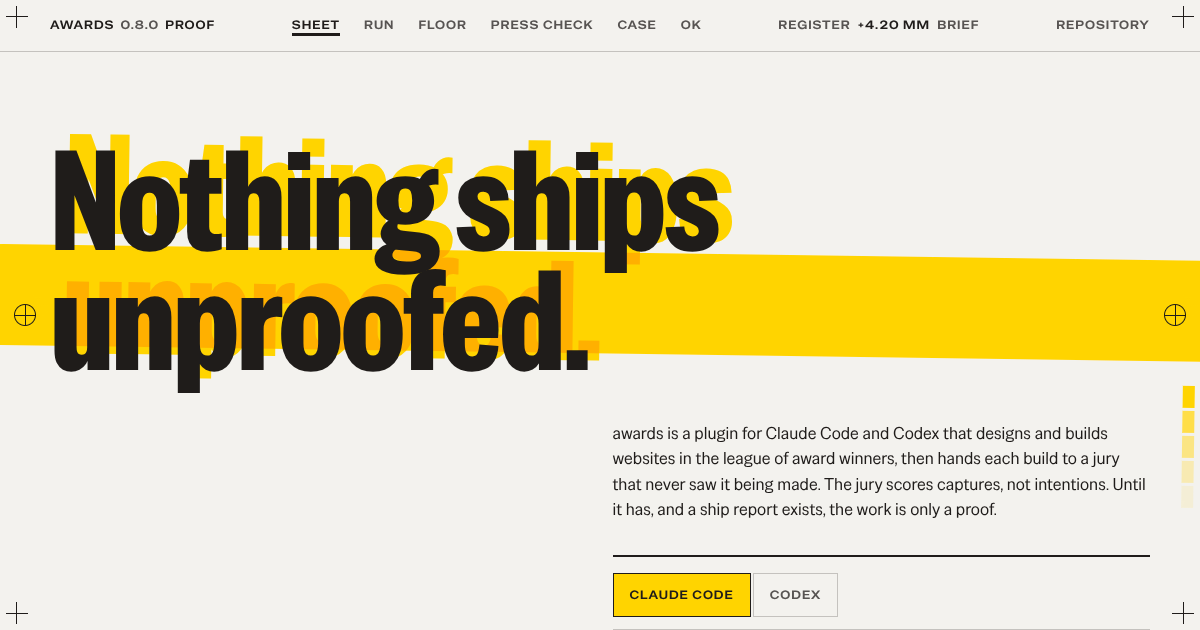
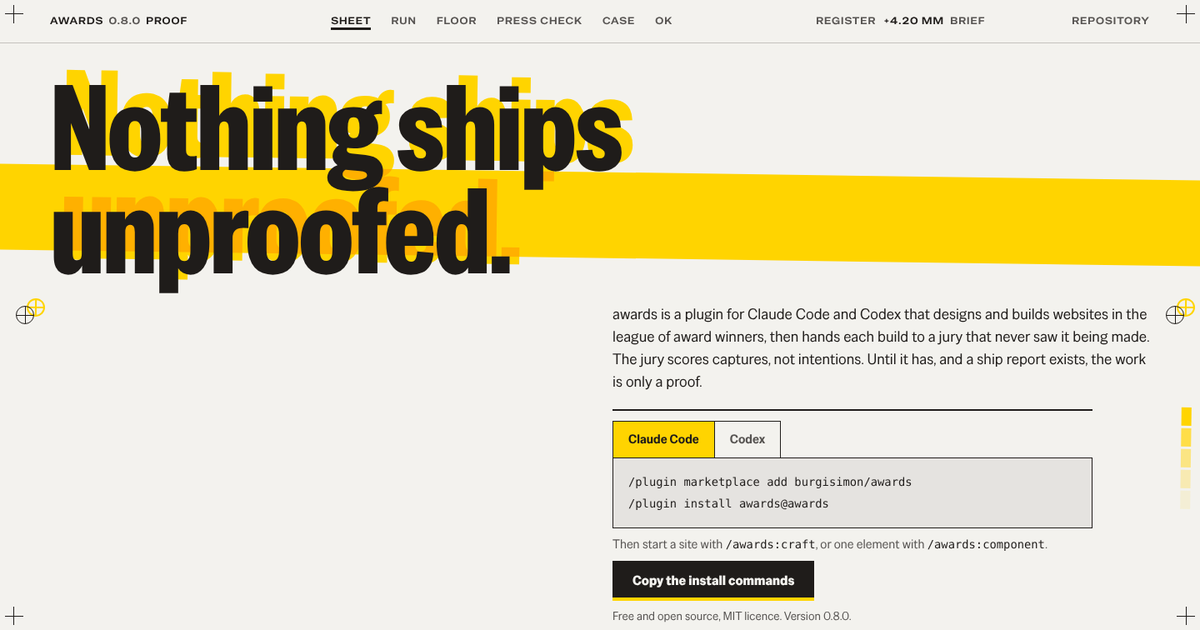
awards-home: pre-jury slop pass
The floor's bar key becomes a legend in rows of four (two on a narrow
figure) with a swatch per family, so no name overflows its cell; the
recipe groups are set in balanced columns instead of a grid that
stranded short groups under tall rows. The proof is reprinted from
Ekvator's ship-pass frame, the OG image re-shot from the current build,
and the remaining images logged.

Claude-Session: https://claude.ai/code/session_01S3PHaSL1cEMrxECNy5QzM8

diff --git a/showcase/awards-home/src/styles/sheet.css b/showcase/awards-home/src/styles/sheet.css
@@ -174,12 +174,15 @@ html.js .install__for { display: none; }
 
 /* 3 · The floor — figure and spec: the colour bar, its key, the copy. */
 .chapter--floor { row-gap: calc(var(--unit) * 10); align-items: start; }
-.floor__figure { grid-column: 1 / span 7; display: grid; gap: calc(var(--unit) * 3); }
+.floor__figure { grid-column: 1 / span 7; display: grid; gap: calc(var(--unit) * 4); container-type: inline-size; }
 .bar { display: grid; grid-template-columns: repeat(8, 1fr); gap: 3px; height: clamp(12rem, 26vw, 22rem); mix-blend-mode: multiply; }
 .bar__patch { background: color-mix(in oklab, var(--accent) calc(var(--d) * 100%), var(--ground)); align-self: end; height: calc(30% + var(--d) * 70%); }
-.bar__key { display: grid; grid-template-columns: repeat(8, 1fr); gap: 3px; }
-.bar__key div { display: grid; gap: 2px; border-top: 1px solid var(--ink); padding-top: 0.5rem; }
-.bar__key dt { font-size: var(--label); font-weight: 600; font-stretch: 115%; letter-spacing: 0.06em; text-transform: uppercase; line-height: 1.2; hyphens: auto; }
+/* The key reads in rows of four (two on a narrow figure), in the bar's order; every name carries its patch's swatch. */
+.bar__key { display: grid; grid-template-columns: repeat(4, minmax(0, 1fr)); gap: calc(var(--unit) * 4) calc(var(--unit) * 3); }
+@container (max-width: 36rem) { .bar__key { grid-template-columns: repeat(2, minmax(0, 1fr)); } }
+.bar__key div { display: grid; align-content: space-between; gap: 0.25rem; border-top: 1px solid var(--ink); padding-top: 0.5rem; }
+.bar__key dt { display: flex; gap: 0.5em; align-items: baseline; font-size: var(--label); font-weight: 600; font-stretch: 115%; letter-spacing: 0.08em; text-transform: uppercase; line-height: 1.25; }
+.bar__swatch { flex: none; width: 0.75rem; height: 0.75rem; align-self: center; background: color-mix(in oklab, var(--accent) calc(var(--d) * 100%), var(--ground)); box-shadow: inset 0 0 0 1px var(--line); mix-blend-mode: multiply; }
 .bar__key dd { font-family: var(--font-display); font-weight: 700; font-stretch: 78%; font-size: var(--h3); }
 .floor__copy { grid-column: 8 / -1; display: grid; gap: calc(var(--unit) * 6); }
 .floor__quoted { display: grid; gap: calc(var(--unit) * 2); border-top: 1px solid var(--line); padding-top: calc(var(--unit) * 4); }
@@ -212,8 +215,9 @@ html.js .install__for { display: none; }
 /* 5 · The case — the recipes in rows, grouped like a type case. */
 .chapter--case { row-gap: calc(var(--unit) * 12); }
 .case__head { grid-column: 1 / span 7; display: grid; gap: calc(var(--unit) * 5); }
-.case__groups { display: grid; grid-template-columns: repeat(auto-fill, minmax(17rem, 1fr)); gap: calc(var(--unit) * 10) calc(var(--gutter) / 2); align-items: start; }
-.case__group { display: grid; gap: calc(var(--unit) * 3); border-top: 2px solid var(--ink); padding-top: calc(var(--unit) * 3); }
+/* Groups of very different lengths are set like a type case in balanced columns, so no short group strands a row. */
+.case__groups { columns: 4 17rem; column-gap: calc(var(--gutter) / 2); }
+.case__group { display: grid; gap: calc(var(--unit) * 3); border-top: 2px solid var(--ink); padding-top: calc(var(--unit) * 3); margin-bottom: calc(var(--unit) * 10); break-inside: avoid; }
 .case__group h3 { position: relative; font-size: 1.25rem; padding-left: 0.5rem; }
 .case__solid { position: absolute; z-index: -1; left: 0; top: 0.05em; width: 0.9em; height: 1.05em; background: var(--accent); mix-blend-mode: multiply; }
 .case__count { font-family: var(--font-body); font-weight: 400; font-stretch: 100%; font-size: 0.875rem; color: var(--muted); }
@@ -270,7 +274,6 @@ html.js .install__for { display: none; }
   .run__row .run__skill, .run__row .run__line { grid-column: 2; }
   .chapter--check { height: auto; }
   .check__stage { position: static; min-height: 0; row-gap: calc(var(--unit) * 10); padding-block: calc(var(--unit) * 22); }
-  .bar__key { grid-template-columns: repeat(4, 1fr); row-gap: calc(var(--unit) * 4); }
   .bar { grid-template-columns: repeat(8, 1fr); height: 10rem; }
   .stamp { right: 3%; top: -8%; }
   .case__group a { padding: 0.65rem 0; min-height: 44px; display: flex; align-items: center; }

diff --git a/showcase/awards-home/facts/render.js b/showcase/awards-home/facts/render.js
@@ -56,8 +56,9 @@ function outside(f) {
 function bar(f) {
   const max = Math.max(...f.rules.families.map((x) => x.count));
   const patches = f.rules.families.map((x) => `<span class="bar__patch" style="--d:${(x.count / max).toFixed(3)}"></span>`).join('');
+  // The key is a legend: each family carries a swatch of its own patch, so the order and the density both match the bar.
   const rows = f.rules.families.map((x) => `
-            <div><dt>${esc(x.name)}</dt><dd>${x.count}</dd></div>`).join('');
+            <div style="--d:${(x.count / max).toFixed(3)}"><dt><span class="bar__swatch" data-plate="y" aria-hidden="true"></span>${esc(x.name)}</dt><dd>${x.count}</dd></div>`).join('');
   return `<div class="bar" data-plate="y" aria-hidden="true">${patches}</div>
           <dl class="bar__key">${rows}
           </dl>`;

diff --git a/showcase/awards-home/AWARDS.md b/showcase/awards-home/AWARDS.md
@@ -46,9 +46,9 @@
 |---|---|---|---|---|---|
 | 1 | The sheet (hero) | the proof lands out of register · claim, one sentence, install, readout · the plate starts to pull in | the first plate (Edge-to-edge type · left · Accent): the claim across columns 1–12 on two lines, a yellow solid band bleeding off the right edge under line two, lede and install in 7–12 | custom slug line (nav), custom install block (tabs + copy) | Archetype: print artefact with an acetate, adapted — the second plate is the device, the acetate is not taken; the key never moves. Composition: h1 168 px (wdth 78) top-left, yellow band under "unproofed.", ghost type 16 px off; lede and install right half; crop marks at the corners, targets on the side centre lines, colour bar down the right margin. Register: declarative. Phone: h1 two lines at 64 px, install (tabs, code, copy) before the paragraph so the action is on screen one; slug collapses to job, error and Plates. A11y: tabs are a tablist with arrow keys; the copy result is announced in the one polite region; commands are real text. Static still: in register, readout 0.00 mm. Hero probe: `.awards/captures/hero-probe-2/manifest.json` (probe 1 fixed: phone offsets scaled by 0.5, crop marks off the slug text, commands wrap). Memory test: the headline printed with its yellow plate out of register over a yellow band. Component pass 1 (fix, mean 7.93, .awards/jury/2026-10-23.md) applied in one batch: tab and button labels moved out of the furniture's tracked capitals into the reading voice (floor, WORLD clause); the tablet plate composed (h1 on three lines at min(22vw, 30svh), lede and install at the plate's foot); short laptop screens (≤ 920 px tall) tighten the sheet's vertical budget so "Copy the install commands" is on the first screen at 1366 × 768 and 1280 × 720; the tabs stand on the code panel's top edge; the focus ring gains its yellow inner rule and the Plates ring is drawn inset; phone commands hang under their first line and the blocked-clipboard label says "choose Copy" on coarse pointers. Also: the motion-setting listener called a missing `register.setTier` (now `refresh`), and `og:image` is absolute. |
 | 2 | The run | registration improves per phase · nine phases in order with their skills, the deal and its printed seed, the two skills outside the run · — | the run sheet (Index rows · left · None) | custom (an `<ol start="0">` of phases; the numbers are the run's real order) | Facts: skill names checked against `plugins/awards/skills/*` at build, so a new skill stops the build until it has a line. The concept row prints Ekvator's real seed. Phone: number column plus a stacked cell. A11y: an ordered list; hover tint is also a focus tint on links inside. Static still: rows. Register: the readout names the phase of the row at mid-viewport. |
-| 3 | The floor | the colour bar arrives · rule families as density patches with their counts, three rules quoted · the bar settles | the colour bar and its key (Figure and spec · split · Accent) | custom (patch density = the family's share of the largest family, from `rules.json`) | The bar is on the spot plate (aria-hidden); the `<dl>` under it is the text. Phone: bar above, key in four columns, copy below. Static still: the bar. Register: numeric. |
+| 3 | The floor | the colour bar arrives · rule families as density patches with their counts, three rules quoted · the bar settles | the colour bar and its key (Figure and spec · split · Accent) | custom (patch density = the family's share of the largest family, from `rules.json`) | The bar is on the spot plate (aria-hidden); the `<dl>` under it is the text. Phone: bar above, key in four columns, copy below. Static still: the bar. Register: numeric. Pre-jury slop pass: the eight-column key under the bar overflowed its cells ("PERFORMANCE", "BROWSER SURFACES") at every width but the widest, and a wrapped name pushed its count off the line; the key is now a legend in rows of four (two on a narrow figure), each name with its patch's swatch, counts on one baseline per row. |
 | 4 | The press check (interruption) | the scale and register change; the Ekvator proof is pulled · the jury's line and scores, what a fresh context means · 0.00 mm and the stamp | the proof pulled from the press (Plate · centre · Plate) | `sticky-stages-rails`: keep the sticky stage on an invisible 210 vh rail · change the hinge into the plates meeting and the stamp printing · pair with the interruption | The one interruption: it changes the scale (a whole page reprinted) and the register (the plates meet). Halftone plates generated from Ekvator's own capture (`scripts/halftone.py`, logged in the asset log). The verdict and the stamp read Ekvator's AWARDS.md at build: "OK to print" only once it is shipped, otherwise "Proof" with its latest disposition. Phone: stage unpinned, copy above the proof. Reduced: the stamp is printed, no travel. |
-| 5 | The case | the type case opens · recipe rows by group, scannable · the case closes | the type case (Index rows in columns · left · None) | custom (groups and titles from each `recipe.json` and `recipe-tags.json`) | Dense chapter; followed by a single display line (the OK). Each row a link to the recipe's folder. Phone: one column. Static still: the case. |
+| 5 | The case | the type case opens · recipe rows by group, scannable · the case closes | the type case (Index rows in columns · left · None) | custom (groups and titles from each `recipe.json` and `recipe-tags.json`) | Dense chapter; followed by a single display line (the OK). Each row a link to the recipe's folder. Phone: one column. Static still: the case. Pre-jury slop pass: groups of 3 to 20 recipes in an auto-fill grid left rows of very different heights and stranded the last group under a tall row; they are now set in balanced columns (`columns: 4 17rem`), groups unbroken. |
 | 6 | Press OK (close) | the OK sheet · install, repository, colophon · end of the sheet | the OK sheet (Offset split · left half / right · Accent) | custom; `designed-footer`: keep the footer as an authored last screen · change it into the press OK with the install repeated and a colophon of counts and their read date · pair with the close | Conversion matched to stakes: the same copy action as screen one. Colophon prints version, licence and counts with the date they were read. |
 | — | 404 | a spoiled sheet · one line and three routes out · — | the waste sheet (Centred statement, left-set · left · None) | `designed-404`: keep three routes out, links first after the line · change it into a sheet marked waste with its plates far apart · pair with the close | Same tokens and face; `noindex`. |
 
